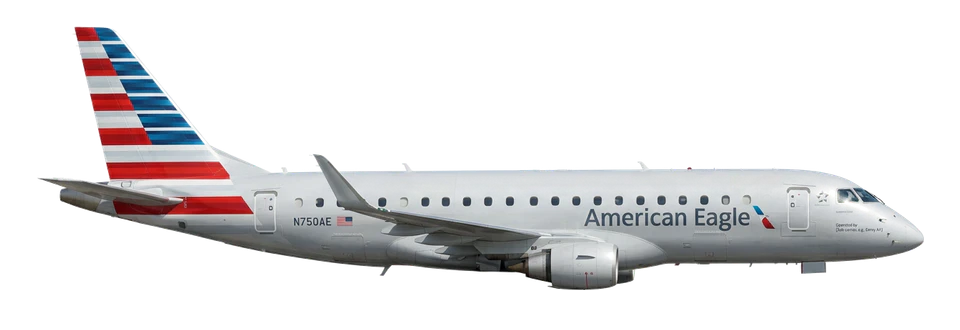
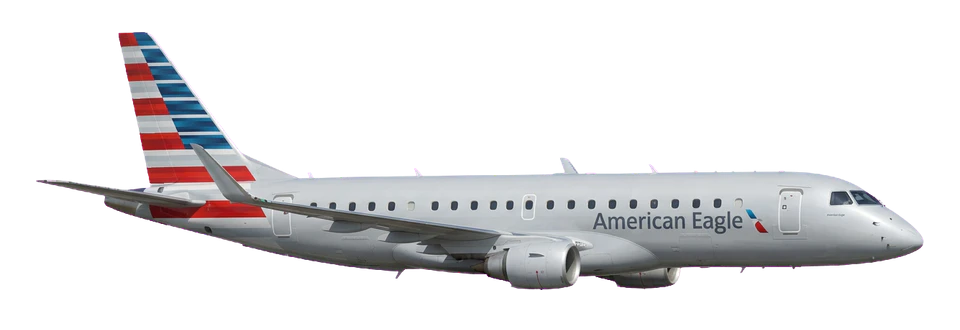
Replace PG-009 planes with magenta-chroma assets

Changed region(s): [[0.0312, 0.0606, 0.9688, 0.8788], [0.2812, 0.7576, 0.3125, 0.7879]]

diff --git a/design/plane-art/README.md b/design/plane-art/README.md
@@ -436,17 +436,20 @@ editable SVG sources, ownership, permission, and provenance are recorded under
 `shape-guides/`. No third-party aircraft reference was introduced.
 
 All twelve aircraft masters were independently generated with the pinned
-`gemini-3.1-flash-image` Google Cloud Vertex AI workflow. Regional Vertex
-locations were used when global dynamic capacity returned `RESOURCE_EXHAUSTED`;
-each request records its actual location. Two rejected generic-widebody left
-candidates were never promoted: one copied guide captions and faced the wrong
-direction, and one resembled a recognizable airline tail treatment.
+`gemini-3.1-flash-image` Google Cloud Vertex AI workflow. On 2026-10-31 the
+original white-matte masters were replaced by user-approved, independently
+generated magenta-chroma candidates using the scoped
+`pg009-chroma-magenta-1` exception. Regional Vertex locations were used when
+global dynamic capacity returned `RESOURCE_EXHAUSTED`; each request records its
+actual location.
 
-The FedEx right and both generic-regional outputs used the documented manual
-alpha-only repair path; their aircraft masters remain the linked Vertex
-candidates. Those three files also have dated below-range exceptions with the
-frozen quality-90 settings unchanged. The other nine outputs passed the normal
-edge-connected white-matte workflow and byte-range gate.
+The replacement batch used connected magenta extraction with the recorded
+120-distance cutoff, followed by the frozen quality-90 normalization workflow.
+All twelve outputs pass the 960 × 330 canvas, alpha, transparent-corner,
+padding, baseline, clipping, and fringe checks. Each is below the 40 KB target
+and carries a dated visual byte-range exception; none exceeds the 110 KB
+ceiling. Raw candidates and extraction inputs remain linked in the gitignored
+processing reports.
 
 Cargo review confirmed readable, correctly oriented FedEx and UPS branding.
 The three generic pairs contain no airline name, logo, registration, or
